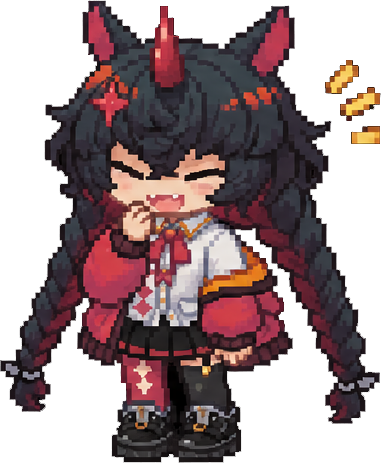
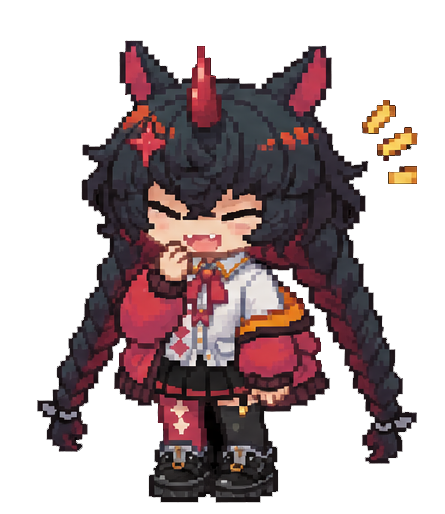
メイの表情差分5種を配置（normal/surprise/pout/cry/shy）
- いただいた5枚を assets/mei/ に配置。shyは445×514の新版で置き換え、
  全表情のキャンバスを統一（切替時に立ち絵がズレない）
- 立ち絵URLに ?v=17 を付与し旧shy.pngのキャッシュを無効化
- 会話イベントで surprise/pout/normal/shy が正しく切り替わるのを確認
- ?v=17 に更新

※ down（しょんぼり）のみ未配置。20問コマ2で使用のため暫定でshyに
  フォールバック中。cry は現状セリフ未使用（予備）。

diff --git a/index.html b/index.html
@@ -7,7 +7,7 @@
   <link rel="preconnect" href="https://fonts.googleapis.com">
   <link rel="preconnect" href="https://fonts.gstatic.com" crossorigin>
   <link href="https://fonts.googleapis.com/css2?family=DotGothic16&display=swap" rel="stylesheet">
-  <link rel="stylesheet" href="style.css?v=16">
+  <link rel="stylesheet" href="style.css?v=17">
 </head>
 <body>
   <main class="app">
@@ -175,7 +175,7 @@
         <div class="clear-halo"></div>
         <div class="clear-halo2"></div>
 
-        <img class="clear-mei" src="assets/mei/shy.png" alt="はぐれメイ">
+        <img class="clear-mei" src="assets/mei/shy.png?v=17" alt="はぐれメイ">
 
         <div class="clear-newrec">NEW RECORD!</div>
 
@@ -210,7 +210,7 @@
         <div class="talk-stage">
           <span class="talk-sparkle s1">✦</span><span class="talk-sparkle s2">✦</span>
           <span class="talk-sparkle s3">✦</span><span class="talk-sparkle s4">✦</span>
-          <img class="talk-mei js-talk-mei" src="assets/mei/shy.png" alt="はぐれメイ">
+          <img class="talk-mei js-talk-mei" src="assets/mei/shy.png?v=17" alt="はぐれメイ">
         </div>
         <div class="talk-bar-top"></div>
         <div class="talk-bar-bottom">
@@ -232,7 +232,7 @@
     </div>
   </main>
 
-  <script src="puzzles.js?v=16"></script>
-  <script src="game.js?v=16"></script>
+  <script src="puzzles.js?v=17"></script>
+  <script src="game.js?v=17"></script>
 </body>
 </html>

diff --git a/game.js b/game.js
@@ -858,8 +858,8 @@
   function renderKoma() {
     const koma = talkQueue[talkIdx];
     if (talkMei) {
-      talkMei.onerror = function () { this.onerror = null; this.src = "assets/mei/shy.png"; };  // 未配置表情はshyで代替
-      talkMei.src = "assets/mei/" + koma.expr + ".png";
+      talkMei.onerror = function () { this.onerror = null; this.src = "assets/mei/shy.png?v=17"; };  // 未配置表情はshyで代替
+      talkMei.src = "assets/mei/" + koma.expr + ".png?v=17";
     }
     if (talkProgEl) talkProgEl.textContent = (talkIdx + 1) + "／" + talkQueue.length;
     typeText(koma.text);
